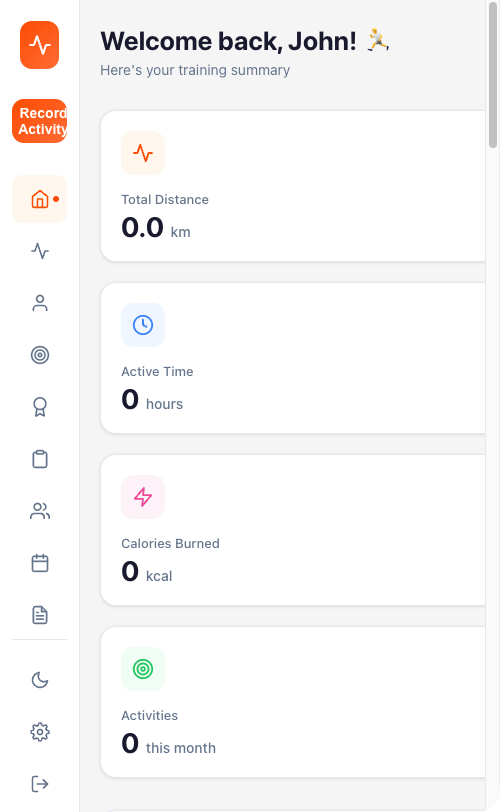
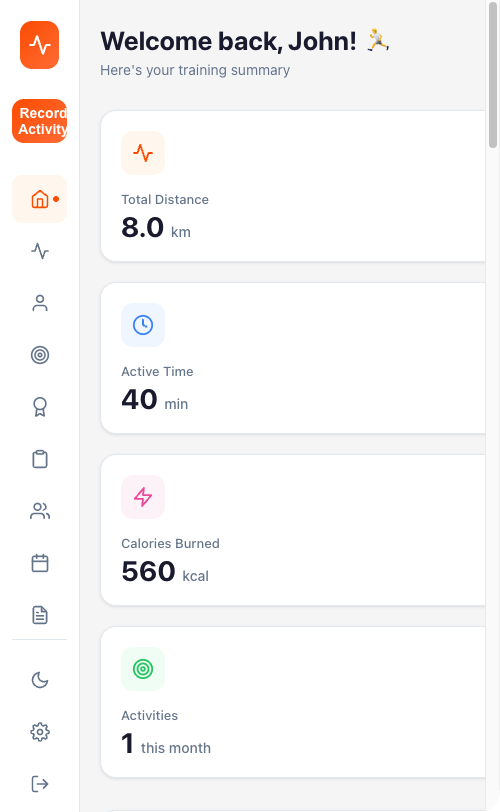
Merge pull request #218 from erykszczesniak/feat/ms-sample-activity-history
feat(activity): seed eleven weeks of sample activity history

diff --git a/services/activity-service/src/test/java/com/strava/activityservice/domain/ActivityRepositoryTest.java b/services/activity-service/src/test/java/com/strava/activityservice/domain/ActivityRepositoryTest.java
@@ -1,26 +1,42 @@
 package com.strava.activityservice.domain;
 
+import com.strava.activityservice.client.UserVisibilityClient;
+import com.strava.activityservice.event.ActivityEventPublisher;
+import com.strava.activityservice.pr.PersonalRecordService;
 import org.junit.jupiter.api.DisplayName;
 import org.junit.jupiter.api.Test;
 import org.springframework.beans.factory.annotation.Autowired;
 import org.springframework.boot.test.autoconfigure.orm.jpa.DataJpaTest;
+import org.springframework.context.annotation.Import;
 import org.springframework.data.domain.Page;
 import org.springframework.data.domain.PageRequest;
+import org.springframework.test.context.bean.override.mockito.MockitoBean;
 
+import java.time.DayOfWeek;
+import java.time.LocalDate;
 import java.time.LocalDateTime;
 import java.util.List;
+import java.util.Map;
+import java.util.Set;
+import java.util.stream.Collectors;
 
 import static org.assertj.core.api.Assertions.assertThat;
 
 /**
  * Runs against H2 (MODE=PostgreSQL) with the real Flyway migrations —
- * including the sample seeds (activities 1..24, streams, PRs) — so this both
- * exercises the non-trivial queries and proves the migrations are
- * H2-compatible end to end.
+ * including the sample seeds (activities 1..24 with streams and PRs, plus the
+ * 166 history rows of V10) — so this both exercises the non-trivial queries
+ * and proves the migrations are H2-compatible end to end.
  */
 @DataJpaTest
+@Import(PersonalRecordService.class)
 @DisplayName("ActivityRepository (H2 + Flyway migrations)")
 class ActivityRepositoryTest {
+
+    private static final int SEEDED_ACTIVITIES = 24;
+    private static final int HISTORY_ACTIVITIES = 166;
+    private static final int USER_1_ACTIVITIES = 6 + 39;
+    private static final List<Long> SAMPLE_USERS = List.of(1L, 2L, 3L, 4L);
 
     @Autowired
     private ActivityRepository activityRepository;
@@ -31,10 +47,19 @@ class ActivityRepositoryTest {
     @Autowired
     private UserCacheRepository userCacheRepository;
 
+    @Autowired
+    private PersonalRecordService personalRecordService;
+
+    @MockitoBean
+    private UserVisibilityClient userVisibilityClient;
+
+    @MockitoBean
+    private ActivityEventPublisher activityEventPublisher;
+
     @Test
-    @DisplayName("sample seeds land: 24 activities with fixed ids, PRs, user cache")
+    @DisplayName("sample seeds land: 24 fixed-id activities + 166 history rows, PRs, user cache")
     void sampleSeedsLand() {
-        assertThat(activityRepository.count()).isEqualTo(24);
+        assertThat(activityRepository.count()).isEqualTo(SEEDED_ACTIVITIES + HISTORY_ACTIVITIES);
         assertThat(activityRepository.findById(1L)).hasValueSatisfying(a -> {
             assertThat(a.getTitle()).isEqualTo("Morning Trail Run");
             assertThat(a.getUserId()).isEqualTo(1L);
@@ -88,7 +113,7 @@ class ActivityRepositoryTest {
     @DisplayName("findByUserId orders by createdAt desc and pages")
     void findByUserIdOrdersByCreatedAtDesc() {
         Page<Activity> page = activityRepository.findByUserId(1L, PageRequest.of(0, 3));
-        assertThat(page.getTotalElements()).isEqualTo(6);
+        assertThat(page.getTotalElements()).isEqualTo(USER_1_ACTIVITIES);
         assertThat(page.getContent()).hasSize(3);
         assertThat(page.getContent().get(0).getCreatedAt())
                 .isAfterOrEqualTo(page.getContent().get(1).getCreatedAt());
@@ -113,9 +138,18 @@ class ActivityRepositoryTest {
     void lifetimeSums() {
         assertThat(activityRepository.sumDistanceByUserId(12345L)).isEqualTo(0.0);
         assertThat(activityRepository.sumDurationByUserId(12345L)).isEqualTo(0L);
-        assertThat(activityRepository.countByUserId(1L)).isEqualTo(6);
-        // user 1: 8.5 + 45.2 + 1.5 + 6.0 + 22.0 + 5.0
-        assertThat(activityRepository.sumDistanceByUserId(1L)).isCloseTo(88.2, org.assertj.core.data.Offset.offset(0.001));
+        assertThat(activityRepository.countByUserId(1L)).isEqualTo(USER_1_ACTIVITIES);
+        double expected = user1Distance(LocalDateTime.MIN, LocalDateTime.MAX);
+        assertThat(expected).isGreaterThan(88.2); // 88.2 km from V3 plus the V10 history
+        assertThat(activityRepository.sumDistanceByUserId(1L)).isCloseTo(expected, org.assertj.core.data.Offset.offset(0.001));
+    }
+
+    /** Sum of user 1's distances with start_time in [from, to], computed entity-side as the oracle. */
+    private double user1Distance(LocalDateTime from, LocalDateTime to) {
+        return activityRepository.findAllByUserIdOrderByStartTimeAsc(1L).stream()
+                .filter(a -> !a.getStartTime().isBefore(from) && !a.getStartTime().isAfter(to))
+                .mapToDouble(Activity::getDistance)
+                .sum();
     }
 
     @Test
@@ -132,7 +166,7 @@ class ActivityRepositoryTest {
             assertThat(dow).isBetween(0, 6);
             total += ((Number) row[1]).doubleValue();
         }
-        assertThat(total).isCloseTo(88.2, org.assertj.core.data.Offset.offset(0.001));
+        assertThat(total).isCloseTo(user1Distance(from, to), org.assertj.core.data.Offset.offset(0.001));
     }
 
     @Test
@@ -145,15 +179,18 @@ class ActivityRepositoryTest {
                 ? (Object[]) raw[0] : raw;
 
         assertThat(stats).hasSize(5);
-        assertThat(((Number) stats[0]).doubleValue()).isCloseTo(88.2, org.assertj.core.data.Offset.offset(0.001));
-        assertThat(((Number) stats[4]).intValue()).isEqualTo(6);
+        assertThat(((Number) stats[0]).doubleValue()).isCloseTo(user1Distance(from, to), org.assertj.core.data.Offset.offset(0.001));
+        long expectedCount = activityRepository.findAllByUserIdOrderByStartTimeAsc(1L).stream()
+                .filter(a -> !a.getStartTime().isBefore(from) && !a.getStartTime().isAfter(to))
+                .count();
+        assertThat(((Number) stats[4]).intValue()).isEqualTo((int) expectedCount);
     }
 
     @Test
     @DisplayName("PR recalculation source query orders by startTime ascending")
     void recalculationSourceOrdered() {
         List<Activity> activities = activityRepository.findAllByUserIdOrderByStartTimeAsc(1L);
-        assertThat(activities).hasSize(6);
+        assertThat(activities).hasSize(USER_1_ACTIVITIES);
         for (int i = 1; i < activities.size(); i++) {
             assertThat(activities.get(i).getStartTime())
                     .isAfterOrEqualTo(activities.get(i - 1).getStartTime());
@@ -197,5 +234,55 @@ class ActivityRepositoryTest {
                     assertThat(pr.getTimeInSeconds()).isEqualTo(1500);
                     assertThat(pr.getPreviousTimeInSeconds()).isEqualTo(1694);
                 });
+    }
+
+    @Test
+    @DisplayName("V10 history covers the previous month and at least 10 of the last 12 weeks for every sample user")
+    void historyCoversTheDashboardWindows() {
+        LocalDateTime now = LocalDateTime.now();
+        LocalDate thisMonday = now.toLocalDate().with(DayOfWeek.MONDAY);
+        LocalDateTime chartStart = thisMonday.minusWeeks(11).atStartOfDay();
+        LocalDateTime monthStart = now.toLocalDate().withDayOfMonth(1).atStartOfDay();
+        LocalDateTime previousMonthStart = monthStart.minusMonths(1);
+
+        for (Long userId : SAMPLE_USERS) {
+            List<Activity> all = activityRepository.findAllByUserIdOrderByStartTimeAsc(userId);
+            assertThat(all).as("user %d", userId).allSatisfy(a -> assertThat(a.getStartTime()).isBeforeOrEqualTo(now));
+
+            long previousMonth = all.stream()
+                    .filter(a -> !a.getStartTime().isBefore(previousMonthStart) && a.getStartTime().isBefore(monthStart))
+                    .count();
+            assertThat(previousMonth).as("user %d, previous calendar month", userId).isGreaterThanOrEqualTo(4);
+
+            long weeks = all.stream()
+                    .filter(a -> !a.getStartTime().isBefore(chartStart))
+                    .map(a -> a.getStartTime().toLocalDate().with(DayOfWeek.MONDAY))
+                    .distinct()
+                    .count();
+            assertThat(weeks).as("user %d, distinct weeks in the 12-week chart", userId).isGreaterThanOrEqualTo(10);
+
+            assertThat(all.stream().filter(a -> a.getId() > SEEDED_ACTIVITIES))
+                    .as("history rows are plain manual entries without streams")
+                    .allSatisfy(a -> assertThat(a.getRoutePolyline()).isNull());
+        }
+    }
+
+    @Test
+    @DisplayName("recalculating personal records over the history still yields exactly the seeded V4 rows")
+    void historyDoesNotRewriteSeededRecords() {
+        Map<Long, Set<String>> seeded = personalRecordSnapshot();
+        assertThat(seeded.values().stream().mapToInt(Set::size).sum()).isEqualTo(17);
+
+        SAMPLE_USERS.forEach(personalRecordService::recalculateAllPRs);
+
+        assertThat(personalRecordSnapshot()).isEqualTo(seeded);
+    }
+
+    private Map<Long, Set<String>> personalRecordSnapshot() {
+        return SAMPLE_USERS.stream().collect(Collectors.toMap(
+                userId -> userId,
+                userId -> personalRecordRepository.findByUserId(userId).stream()
+                        .map(pr -> pr.getActivityType() + "/" + pr.getDistanceType() + "/" + pr.getTimeInSeconds())
+                        .collect(Collectors.toSet())));
     }
 }

diff --git a/services/activity-service/src/test/java/com/strava/activityservice/domain/ActivityRepositoryPostgresContainerTest.java b/services/activity-service/src/test/java/com/strava/activityservice/domain/ActivityRepositoryPostgresContainerTest.java
@@ -47,20 +47,22 @@ class ActivityRepositoryPostgresContainerTest {
     @Test
     @DisplayName("production migration set applies cleanly and seeds land")
     void migrationsApplyAndSeedsLand() {
-        assertThat(activityRepository.count()).isEqualTo(24);
+        // 24 fixed-id rows (V3) + 166 history rows (V10)
+        assertThat(activityRepository.count()).isEqualTo(190);
         Integer applied = jdbc.queryForObject(
                 "select count(*) from flyway_schema_history where success", Integer.class);
-        assertThat(applied).isGreaterThanOrEqualTo(9);
+        assertThat(applied).isGreaterThanOrEqualTo(10);
     }
 
     @Test
     @DisplayName("identity sequence continues after the fixed-id sample inserts")
     void identitySequenceIsPastTheSeeds() {
         // The postgresql/ flavor restarts the identity after the seeded ids; on a
-        // broken restart the first real insert would collide with activity 24.
+        // broken restart the V10 history inserts (and then the first real insert)
+        // would collide with activity 24. V10 itself consumes 166 identity values.
         Long next = jdbc.queryForObject(
                 "select nextval(pg_get_serial_sequence('activities', 'id'))", Long.class);
-        assertThat(next).isGreaterThan(24L);
+        assertThat(next).isGreaterThan(190L);
     }
 
     @Test

diff --git a/CHANGELOG.md b/CHANGELOG.md
@@ -42,6 +42,11 @@ Conventional Commit PR titles.
   `autoTable(doc, …)` like the other pages.
 
 ### Added
+- activity-service: eleven weeks of training history for the four sample
+  users (`V10`, 166 manual activities dated relative to the first start, same
+  rows as `main`), so the dashboard month cards, the month-over-month trend
+  and the 12-week volume chart have data on any day. Seeded personal records
+  are unchanged; `ActivityRepositoryTest` recalculates them on H2 to prove it.
 - Chat provider failover (Anthropic → Groq on 502/503, open breaker or no
   key) with `ai_failover_total` and the `AiProviderFailoverActive` alert;
   live rubric evals for chat and generation (JUnit tag `live-eval`, weekly

diff --git a/README.md b/README.md
@@ -95,6 +95,12 @@ docker compose --profile observability --profile search up -d
 scripts/smoke.sh
 ```
 
+The sample accounts (`pan@example.com`, `john@example.com`, `jane@example.com`,
+`admin@example.com`, password `password123`) come with 12 weeks of activities
+dated relative to the first start of the databases. If the stack has been
+running for weeks, `docker compose down -v && docker compose up -d` re-seeds
+them from today.
+
 | URL | Purpose |
 |---|---|
 | [localhost:8080](http://localhost:8080) | API Gateway |
